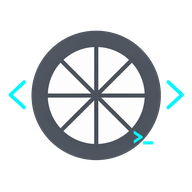
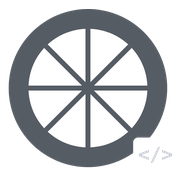
Restore classic palette and apply approved Code mark and block editor

diff --git a/wasm/static/css/vibelight.css b/wasm/static/css/vibelight.css
@@ -1,162 +1,14 @@
-/* Shared menu skin. Keep layout, focus behavior and streaming surfaces intact. */
-:root {
-    --vl-bg: #0f1419;
-    --vl-surface: #171e24;
-    --vl-raised: #232d35;
-    --vl-text: #eef5fa;
-    --vl-muted: #b6c0c9;
-    --vl-line: #35424c;
-    --vl-accent: #70b8c0;
-    --vl-selected: #1c3339;
-    --vl-primary: #24444d;
-}
-body { color: var(--vl-text); background-color: var(--vl-bg); }
-#main-header, .console-library #main-header {
-    background-color: var(--vl-surface);
-    box-shadow: inset 0 -1px var(--vl-line), inset 3px 0 var(--vl-accent);
-}
+/* Approved Code mark and block editor only. All other colors stay at 3.4.10. */
 #header-logo { border-radius: 0; box-shadow: none; }
-#header-title, .console-library #header-title {
-    color: var(--vl-text); text-transform: none; text-shadow: none;
-}
-#wasmSpinnerLogo { animation: none; }
-.mdl-progress > .progressbar { background-color: var(--vl-accent); }
-.mdl-progress > .bufferbar { background-color: var(--vl-surface); }
-.mdl-progress > .auxbar { background: var(--vl-raised); }
-#settingsBtn, #restoreDefaultsBtn, #quitRunningAppBtn, #goBackBtn,
-.console-toolbar-button, .console-button {
-    color: var(--vl-text); background-color: var(--vl-raised);
-    border-color: var(--vl-line); border-radius: 6px; box-shadow: none;
-}
-.console-hero {
-    background: var(--vl-surface); border-color: var(--vl-line);
-    border-radius: 6px; box-shadow: inset 3px 0 var(--vl-accent);
-}
-.console-button-primary { background: var(--vl-primary); border-color: var(--vl-accent); }
-.console-filters [aria-pressed="true"] {
-    background: var(--vl-selected); border-color: var(--vl-accent);
-}
-#libraryHost { color: var(--vl-accent); }
-#libraryStatus, #libraryEmpty { color: var(--vl-muted); }
-.console-library .console-card {
-    background: var(--vl-surface); border-color: var(--vl-line); border-radius: 6px;
-}
-.console-card-badge { background: var(--vl-selected); color: var(--vl-text); }
-.console-library .console-card.hovered, .console-library .console-card:focus {
-    border-color: var(--vl-accent); outline-color: var(--vl-accent);
-}
-.console-button:focus, .console-button.hovered,
-.console-toolbar-button:focus, .console-toolbar-button.hovered { outline-color: var(--vl-accent); }
-#host-grid .mdl-card { border-radius: 6px; }
-.host-add-container > .mdl-card__title, .host-container > .mdl-card__title {
-    background-color: var(--vl-raised);
-}
-#host-grid .host-title { background-color: var(--vl-surface); color: var(--vl-text); }
-.host-menu.hovered, .host-menu:hover, .host-menu:focus, .host-menu:active {
-    background-color: var(--vl-primary); box-shadow: none;
-}
-#settings-left-pane { border-right-color: var(--vl-line); }
-.settings-category {
-    color: var(--vl-muted); border-bottom-color: var(--vl-line); border-radius: 6px;
-}
-.settings-category.hovered, .settings-category:hover, .settings-category:focus {
-    background-color: var(--vl-raised); box-shadow: inset 0 0 0 1px var(--vl-accent);
-}
-.settings-category.selected {
-    color: var(--vl-text); background: var(--vl-selected);
-    box-shadow: inset 3px 0 var(--vl-accent);
-}
-.settings-options label { color: var(--vl-text); }
-.settings-options .mdl-list__item-text-body { color: var(--vl-muted); }
-.settings-options .mdl-switch__label { color: var(--vl-text); }
-#selectResolution, #selectFramerate, #selectBitrate, #ipAddressFieldModeBtn,
-#sortAppsListBtn, #optimizeGamesBtn, #removeAllHostsBtn, #rumbleFeedbackBtn, #mouseEmulationBtn,
-#selectAudio, #playHostAudioBtn, #selectAudioJitter, #selectCodec, #hdrModeBtn,
-#fullRangeBtn, #gameModeBtn, #disableWarningsBtn, #performanceStatsBtn, #diagnosticsBtn,
-#navigationGuideBtn, #restartAppBtn, #systemInfoBtn, #controllerMappingBtn {
-    color: var(--vl-text); background-color: var(--vl-raised); border-radius: 6px;
-}
-.mdl-menu__outline, .mdl-menu { background-color: var(--vl-raised); }
-.videoBitrateMenu, .audioJitterMenu { background-color: var(--vl-raised); }
-#videoResolutionMenu > #selectResolution, #videoFramerateMenu > #selectFramerate,
-#videoBitrateMenu > #selectBitrate, #audioConfigMenu > #selectAudio,
-#audioJitterMenu > #selectAudioJitter, #videoCodecMenu > #selectCodec {
-    color: var(--vl-text); background-color: var(--vl-raised);
-}
-.mdl-menu__item { color: var(--vl-text); }
-.mdl-menu__item.hovered, .mdl-menu__item:hover, .mdl-menu__item:focus {
-    background-color: var(--vl-selected);
-}
-.mdl-switch.is-checked .mdl-switch__track { background: var(--vl-accent); box-shadow: none; }
-.mdl-switch.is-checked .mdl-switch__thumb { background-color: var(--vl-text); }
-.mdl-switch.is-focused {
-    background-color: var(--vl-selected); box-shadow: inset 0 0 0 2px var(--vl-accent);
-}
-.settings-options .mdl-button:hover, .settings-options .mdl-button:focus,
-.settings-options .mdl-button.hovered {
-    box-shadow: inset 0 0 0 2px var(--vl-accent);
-}
-#main-content #settings-list .mdl-button:focus,
-#main-content #settings-list .mdl-button:hover,
-#main-content #settings-list .mdl-button.hovered,
-#settings-list label.mdl-switch:focus, #settings-list label.mdl-switch:hover,
-#settings-list label.mdl-switch.hovered, #settings-list label.mdl-switch.is-focused,
-#main-header .mdl-button:focus, #main-header .mdl-button:hover,
-.mdl-dialog .mdl-button:focus, .mdl-dialog .mdl-button:hover {
-    background-color: var(--vl-selected); box-shadow: inset 0 0 0 2px var(--vl-accent);
-}
-.mdl-slider__background-upper { background-color: var(--vl-line); }
-.mdl-slider__background-lower { background-color: var(--vl-accent); }
-.mdl-slider::-webkit-slider-thumb { background: var(--vl-accent); }
-.mdl-dialog, .large-dialog, .utility-dialog {
-    color: var(--vl-text); background-color: var(--vl-surface); border-radius: 6px;
-    box-shadow: inset 0 0 0 1px var(--vl-accent);
-}
-.mdl-dialog__content { color: var(--vl-muted); }
-.utility-input, #ipAddressTextInput, #ipAddressField2, #ipAddressField3, #ipAddressField4 {
-    color: var(--vl-text); background-color: var(--vl-raised); border-color: var(--vl-line);
-}
-.mdl-textfield__input:focus, .mdl-textfield__input.hovered,
-.ip-address-select-field.hovered, .ip-address-select-field:hover {
-    box-shadow: inset 0 0 0 2px var(--vl-accent);
-}
-.mdl-textfield--floating-label.is-focused .mdl-textfield__label { color: var(--vl-accent); }
-.mdl-button--raised.mdl-button--colored {
-    background-color: var(--vl-raised) !important;
-}
-.mdl-button--raised.mdl-button--colored:hover, .mdl-button--raised.mdl-button--colored:focus,
-.mdl-button--raised.mdl-button--colored:active { box-shadow: inset 0 0 0 2px var(--vl-accent); }
-.utility-actions button, #diagnosticsReportBtn {
-    color: var(--vl-text); background: var(--vl-raised);
-}
-.utility-dialog button:focus, .utility-dialog .hovered, #diagnosticsReportBtn:focus {
-    outline-color: var(--vl-accent);
-}
-.diagnosis-table th { color: var(--vl-accent); }
-.diagnosis-table th, .diagnosis-table td { border-bottom-color: var(--vl-line); }
-#diagnosisFoot, #diagnosisDevice { color: var(--vl-muted); }
-#controllerMappingDialog {
-    background: var(--vl-surface); border-color: var(--vl-accent);
-    color: var(--vl-text); border-radius: 6px; box-shadow: none;
-}
-#controllerMappingDialog button {
-    color: var(--vl-text); background: var(--vl-raised); border-color: var(--vl-line);
-    border-radius: 6px;
-}
-#controllerMappingDialog button:focus, #controllerMappingDialog .cm-selected {
-    background: var(--vl-selected); border-color: var(--vl-accent); outline-color: var(--vl-accent);
-}
-#controllerMappingDialog #cm-enabled[aria-pressed="true"], #controllerMappingDialog #cm-save {
-    background: var(--vl-primary); border-color: var(--vl-accent);
-}
-/* Preserve the existing bright cyan feedback and atlas for physical test input. */
-#controllerMappingDialog .cm-pressed { background: #087b86; color: white; }
-.cm-label { background: var(--vl-selected); border-color: var(--vl-accent); }
-#controllerMappingDialog .cm-credit, #controllerMappingDialog .cm-note { color: var(--vl-muted); }
-#controllerMappingDialog #cm-status { color: var(--vl-accent); }
-#controllerMappingDialog #cm-exit-hint {
-    background: var(--vl-selected); border-color: var(--vl-accent); color: var(--vl-text);
-}
-#controllerMappingDialog footer { border-top-color: var(--vl-line); }
-.mdl-snackbar { background: var(--vl-surface); border-radius: 6px; box-shadow: inset 0 0 0 1px var(--vl-line); }
-.mdl-tooltip { background-color: var(--vl-raised); box-shadow: none; }
+#controllerMappingDialog { background: #333846; color: #f3f3f5; border-color: #666875; box-shadow: none; }
+#controllerMappingDialog button { color: #f3f3f5; background: #404354; border-color: #666875; }
+#controllerMappingDialog button:focus, #controllerMappingDialog .cm-selected { outline-color: #cfcfcf; border-color: #cfcfcf; background: #585d75; }
+#controllerMappingDialog #cm-enabled[aria-pressed="true"], #controllerMappingDialog #cm-save { background: #404354; border-color: #cfcfcf; }
+#controllerMappingDialog .cm-body > section { padding: .65em; border-radius: 8px; }
+#controllerMappingDialog .cm-visual { background: #282c38; }
+#controllerMappingDialog .cm-body > section:last-child { background: #3e4454; }
+#controllerMappingDialog .cm-pressed { background: #4d6670; color: white; }
+#controllerMappingDialog .cm-label { background: #404354; border-color: #666875; }
+#controllerMappingDialog .cm-credit, #controllerMappingDialog .cm-note, #controllerMappingDialog #cm-status { color: #cfcfcf; }
+#controllerMappingDialog #cm-exit-hint { background: #282c38; border-color: #666875; color: #f3f3f5; }
+#controllerMappingDialog footer { border-top-color: #666875; }

diff --git a/wasm/branding_test.js b/wasm/branding_test.js
@@ -16,13 +16,16 @@ const frozen = ['moonlight-common-c', 'libgamestream', 'h264bitstream',
   'wasm/static/css/style.css', 'wasm/static/css/menu-tools.css',
   'wasm/static/css/console-library.css', 'wasm/static/css/controller-mapping.css'];
 const changed = cp.execFileSync('git', ['diff', '--name-only', 'v3.4.10', '--', ...frozen], {encoding: 'utf8'}).trim().split('\n').filter(Boolean);
-assert.deepStrictEqual(changed.sort(), files.filter(f => f.startsWith('wasm/platform/')).sort());
+assert.deepStrictEqual(changed.sort(), files.filter(f => f.startsWith('wasm/platform/') && !f.endsWith('/messages.js')).sort());
 const html = fs.readFileSync('wasm/index.html', 'utf8');
 assert(html.indexOf('static/css/vibelight.css') > html.indexOf('static/css/controller-mapping.css'));
 assert(!html.includes('>Moonlight') && !html.includes('Reload Moonlight'));
 assert(html.includes('data-name="moonlight-tizen"'), 'internal identity is unchanged');
 const css = fs.readFileSync('wasm/static/css/vibelight.css', 'utf8');
-assert(!/[{;]\s*(?:width|height|padding|margin|position|display|transform|font-size|filter|backdrop-filter|transition)\s*:/.test(css), 'theme must not change geometry or add effects');
+assert(!/[{;]\s*(?:filter|backdrop-filter|transition|animation|transform)\s*:/.test(css), 'no runtime effects added');
+for (const rule of css.replace(/\/\*[\s\S]*?\*\//g, '').matchAll(/([^{}]+)\{([^{}]*)\}/g)) {
+  assert(rule[1].split(',').every(s => s.trim() === '#header-logo' || s.trim().startsWith('#controllerMappingDialog')), 'only the approved mark and editor may be styled');
+}
 assert(!/#(?:performance-stats|connection-warnings)\b|\.fullscreen\b|\bcanvas\b|\bvideo\b/.test(css), 'stream surfaces and overlay are untouched');
-assert(css.includes('--vl-bg: #0f1419;') && css.includes('--vl-accent: #70b8c0;'));
-console.log('branding_test: exact stable runtime/IDs/defaults retained; display-only replacements, shared geometry-free theme and neighboring mutation checks PASS');
+assert(css.includes('background: #333846') && css.includes('background: #282c38'));
+console.log('branding_test: stable runtime/IDs/defaults retained; original global colors and scoped block editor/Code identity only PASS');

diff --git a/wasm/connection_warning_test.js b/wasm/connection_warning_test.js
@@ -142,16 +142,11 @@ for (const message of [
   'DecoderError: Synthetic error', 'ProgressMsg: Synthetic progress'
 ]) {
   const expected = dispatch(oldMessages, message);
-  // Menu background now comes from the shared skin; streaming transparency
-  // and every non-visual effect must still match the published behavior.
-  for (const event of expected) {
-    if (event[0] === 'css' && event[1] === 'body' && event[2] === 'backgroundColor' && event[3] === '#282C38') event[3] = '';
-  }
   if (message === 'streamTerminated: -101') {
     const snackbar = expected.find(event => event[0] === 'snackbar');
     assert.strictEqual(snackbar[1], "Your network connection isn't performing well. Reduce your video bitrate setting or try a faster connection.");
     snackbar[1] = 'Stream ended. Check connection or settings.';
   }
-  assert.deepStrictEqual(dispatch(newMessages, message), expected, message + ' preserves all effects except the exact menu color reset');
+  assert.deepStrictEqual(dispatch(newMessages, message), expected, message + ' preserves all non-text effects');
 }
 console.log('connection_warning_test: receive callback returns before UI work; FIFO and stale-session guards OK');

diff --git a/wasm/platform/index.js b/wasm/platform/index.js
@@ -376,7 +376,7 @@ function showHosts() {
   ConsoleLibrary.hide();
   $('#wasmSpinner, #loadingSpinner').hide();
   $('#main-header').children().show();
-  $('#main-header').css({'backgroundColor': '', 'boxShadow': ''});
+  $('#main-header').css({'backgroundColor': '#333846', 'boxShadow': 'none'});
   showHostsMode();
   Navigation.switch();
 }
@@ -1329,7 +1329,7 @@ function showSettings() {
   ConsoleLibrary.settings();
   $('#wasmSpinner, #loadingSpinner').hide();
   $('#main-header').children().show();
-  $('#main-header').css({'backgroundColor': '', 'boxShadow': ''});
+  $('#main-header').css({'backgroundColor': '#333846', 'boxShadow': 'none'});
   $('#settings-list').removeClass('hide-container').css('display', 'flex');
   Navigation.push(Views.Settings);
   showSettingsMode();
@@ -1649,7 +1649,7 @@ function showAppsMode() {
   $('#main-content').removeClass('fullscreen');
   $('#listener').removeClass('fullscreen');
   $('#loadingSpinner').css('display', 'none');
-  $('body').css('backgroundColor', '');
+  $('body').css('backgroundColor', '#282C38');
   $('#wasm_module').css('display', 'none');
 
   isInGame = false;

diff --git a/wasm/platform/messages.js b/wasm/platform/messages.js
@@ -136,7 +136,7 @@ function handleMessage(msg) {
     // Remove the video stream now
     $('#listener').removeClass('fullscreen');
     $('#loadingSpinner').css('display', 'none');
-    $('body').css('backgroundColor', '');
+    $('body').css('backgroundColor', '#282C38');
     $('#wasm_module').css('display', 'none');
     // Show a termination snackbar message if the termination was unexpected
     var errorCode = parseInt(msg.replace('streamTerminated: ', ''));
